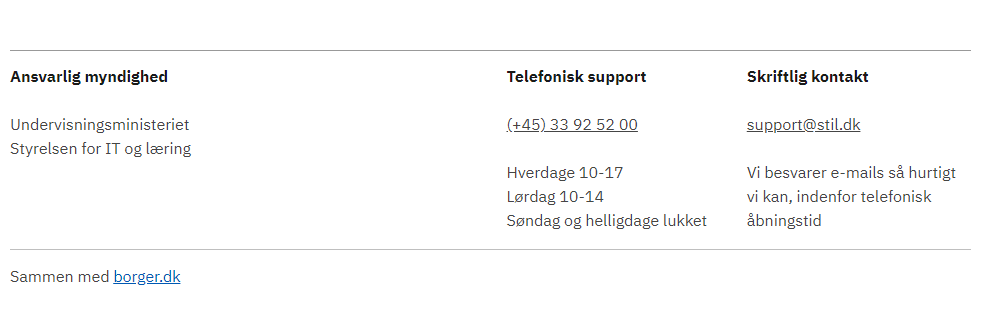
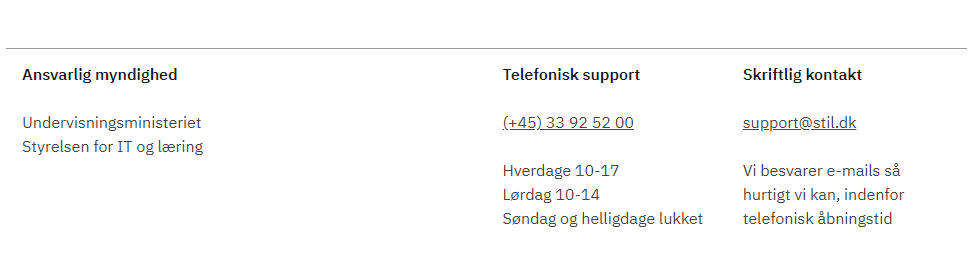
footer documentation

diff --git a/_includes/code/components/layout--landing.html b/_includes/code/components/layout--landing.html
@@ -38,22 +38,22 @@
             <code class="Error-stack">
         <pre>Template render error: (unknown path)
   Error: Could not render component '@header--simpel' - component not found.
-    at Object.exports.prettifyError (C:\Projects\FaellesoffentligStyleguide\Code\dk-web-design-standards-components\node_modules\nunjucks\src\lib.js:34:15)
-    at C:\Projects\FaellesoffentligStyleguide\Code\dk-web-design-standards-components\node_modules\nunjucks\src\environment.js:486:31
-    at eval (eval at _compile (C:\Projects\FaellesoffentligStyleguide\Code\dk-web-design-standards-components\node_modules\nunjucks\src\environment.js:565:24), <anonymous>:32:11)
-    at b_header (eval at _compile (C:\Projects\FaellesoffentligStyleguide\Code\dk-web-design-standards-components\node_modules\nunjucks\src\environment.js:565:24), <anonymous>:50:3)
-    at eval (eval at _compile (C:\Projects\FaellesoffentligStyleguide\Code\dk-web-design-standards-components\node_modules\nunjucks\src\environment.js:565:24), <anonymous>:31:85)
-    at b_banner (eval at _compile (C:\Projects\FaellesoffentligStyleguide\Code\dk-web-design-standards-components\node_modules\nunjucks\src\environment.js:565:24), <anonymous>:87:1)
-    at eval (eval at _compile (C:\Projects\FaellesoffentligStyleguide\Code\dk-web-design-standards-components\node_modules\nunjucks\src\environment.js:565:24), <anonymous>:27:85)
-    at b_skipnav (eval at _compile (C:\Projects\FaellesoffentligStyleguide\Code\dk-web-design-standards-components\node_modules\nunjucks\src\environment.js:565:24), <anonymous>:76:1)
-    at eval (eval at _compile (C:\Projects\FaellesoffentligStyleguide\Code\dk-web-design-standards-components\node_modules\nunjucks\src\environment.js:565:24), <anonymous>:23:86)
-    at b_styles (eval at _compile (C:\Projects\FaellesoffentligStyleguide\Code\dk-web-design-standards-components\node_modules\nunjucks\src\environment.js:565:24), <anonymous>:64:1)
-    at new_cls.root [as rootRenderFunc] (eval at _compile (C:\Projects\FaellesoffentligStyleguide\Code\dk-web-design-standards-components\node_modules\nunjucks\src\environment.js:565:24), <anonymous>:19:85)
-    at eval (eval at _compile (C:\Projects\FaellesoffentligStyleguide\Code\dk-web-design-standards-components\node_modules\nunjucks\src\environment.js:565:24), <anonymous>:28:16)
-    at eval (eval at _compile (C:\Projects\FaellesoffentligStyleguide\Code\dk-web-design-standards-components\node_modules\nunjucks\src\environment.js:565:24), <anonymous>:23:46)
-    at eval (eval at _compile (C:\Projects\FaellesoffentligStyleguide\Code\dk-web-design-standards-components\node_modules\nunjucks\src\environment.js:565:24), <anonymous>:23:85)
-    at eval (eval at _compile (C:\Projects\FaellesoffentligStyleguide\Code\dk-web-design-standards-components\node_modules\nunjucks\src\environment.js:565:24), <anonymous>:19:46)
-    at eval (eval at _compile (C:\Projects\FaellesoffentligStyleguide\Code\dk-web-design-standards-components\node_modules\nunjucks\src\environment.js:565:24), <anonymous>:19:83)</pre>
+    at Object.exports.prettifyError (C:\Users\hma\Documents\repository\ERST_styleguide\dk-web-design-standards-components\node_modules\nunjucks\src\lib.js:34:15)
+    at C:\Users\hma\Documents\repository\ERST_styleguide\dk-web-design-standards-components\node_modules\nunjucks\src\environment.js:486:31
+    at eval (eval at _compile (C:\Users\hma\Documents\repository\ERST_styleguide\dk-web-design-standards-components\node_modules\nunjucks\src\environment.js:565:24), <anonymous>:32:11)
+    at b_header (eval at _compile (C:\Users\hma\Documents\repository\ERST_styleguide\dk-web-design-standards-components\node_modules\nunjucks\src\environment.js:565:24), <anonymous>:50:3)
+    at eval (eval at _compile (C:\Users\hma\Documents\repository\ERST_styleguide\dk-web-design-standards-components\node_modules\nunjucks\src\environment.js:565:24), <anonymous>:31:85)
+    at b_banner (eval at _compile (C:\Users\hma\Documents\repository\ERST_styleguide\dk-web-design-standards-components\node_modules\nunjucks\src\environment.js:565:24), <anonymous>:87:1)
+    at eval (eval at _compile (C:\Users\hma\Documents\repository\ERST_styleguide\dk-web-design-standards-components\node_modules\nunjucks\src\environment.js:565:24), <anonymous>:27:85)
+    at b_skipnav (eval at _compile (C:\Users\hma\Documents\repository\ERST_styleguide\dk-web-design-standards-components\node_modules\nunjucks\src\environment.js:565:24), <anonymous>:76:1)
+    at eval (eval at _compile (C:\Users\hma\Documents\repository\ERST_styleguide\dk-web-design-standards-components\node_modules\nunjucks\src\environment.js:565:24), <anonymous>:23:86)
+    at b_styles (eval at _compile (C:\Users\hma\Documents\repository\ERST_styleguide\dk-web-design-standards-components\node_modules\nunjucks\src\environment.js:565:24), <anonymous>:64:1)
+    at new_cls.root [as rootRenderFunc] (eval at _compile (C:\Users\hma\Documents\repository\ERST_styleguide\dk-web-design-standards-components\node_modules\nunjucks\src\environment.js:565:24), <anonymous>:19:85)
+    at eval (eval at _compile (C:\Users\hma\Documents\repository\ERST_styleguide\dk-web-design-standards-components\node_modules\nunjucks\src\environment.js:565:24), <anonymous>:28:16)
+    at eval (eval at _compile (C:\Users\hma\Documents\repository\ERST_styleguide\dk-web-design-standards-components\node_modules\nunjucks\src\environment.js:565:24), <anonymous>:23:46)
+    at eval (eval at _compile (C:\Users\hma\Documents\repository\ERST_styleguide\dk-web-design-standards-components\node_modules\nunjucks\src\environment.js:565:24), <anonymous>:23:85)
+    at eval (eval at _compile (C:\Users\hma\Documents\repository\ERST_styleguide\dk-web-design-standards-components\node_modules\nunjucks\src\environment.js:565:24), <anonymous>:19:46)
+    at eval (eval at _compile (C:\Users\hma\Documents\repository\ERST_styleguide\dk-web-design-standards-components\node_modules\nunjucks\src\environment.js:565:24), <anonymous>:19:83)</pre>
     </code>
 
         </div>

diff --git a/_includes/footer.html b/_includes/footer.html
@@ -5,7 +5,7 @@
         <div class="col-12 col-sm-12 col-md-3 col-lg-3 nopaddingleft footer-col">
           <div class="align-left">
             <ul class="unstyled-list">
-              <li><h6>Ansvarlig myndighed</h6></li>
+              <li><p class="h6 semibold" title="Ansvarlig myndighed" aria-label="Ansvarlig myndighed">Ansvarlig myndighed</p></li>
             </ul>
             <ul class="unstyled-list">
               <li><p>Undervisningsministeriet</p></li>
@@ -16,21 +16,21 @@
         <div class="col-12 col-sm-12 col-md-3 col-lg-3 footer-col">
           <div class="align-left">
             <ul class="unstyled-list">
-              <li><h6>Hjælpende links</h6></li>
+              <li><p class="h6 semibold" title="Hjælpende links" aria-label="Hjælpende links">Hjælpende links</p></li>
             </ul>
             <ul class="unstyled-list footer-links">
-              <li><a href="#">Link til et sted på siden</a></li>
-              <li><a href="#">Link til et sted på siden</p></li>
-              <li><a href="#">Link til et sted på siden</p></li>
-              <li><a href="#" class="icon-link">Link til en ekstern side<svg class="icon-svg "><use xlink:href="#open-in-new"></use></svg></a></li>
-              <li><a href="#" class="icon-link">Link til en ekstern side<svg class="icon-svg "><use xlink:href="#open-in-new"></use></svg></a></li>
+              <li><a href="javascript:void(0);">Link til et sted på siden</a></li>
+              <li><a href="javascript:void(0);">Link til et sted på siden</p></li>
+              <li><a href="javascript:void(0);">Link til et sted på siden</p></li>
+              <li><a href="javascript:void(0);" class="icon-link">Link til en ekstern side<svg class="icon-svg "><use xlink:href="#open-in-new"></use></svg></a></li>
+              <li><a href="javascript:void(0);" class="icon-link">Link til en ekstern side<svg class="icon-svg "><use xlink:href="#open-in-new"></use></svg></a></li>
             </ul>
           </div>
         </div>
         <div class="col-12 col-sm-12 col-md-3 col-lg-3 footer-col">
           <div class="align-left">
             <ul class="unstyled-list">
-              <li><h6>Telefonisk support</h6></li>
+              <li><p class="h6 semibold" title="Telefonisk support" aria-label="Telefonisk support">Telefonisk support</p></li>
             </ul>
             <ul class="unstyled-list">
               <li><p><a class="function-link" href="tel:004533925200">(+45) 33 92 52 00</a></p></li>
@@ -42,10 +42,10 @@
             </ul>
           </div>
         </div>
-        <div class="col-12 col-sm-12 col-md-3 col-lg-3 nopaddingright footer-col">
+        <div class="col-12 col-sm-12 col-md-3 col-lg-3 footer-col">
           <div class="align-left">
             <ul class="unstyled-list">
-              <li><h6>Skriftlig kontakt</h6></li>
+              <li><p class="h6 semibold"  title="Skriftlig kontakt" aria-label="Skriftlig kontakt">Skriftlig kontakt</p></li>
             </ul>
             <ul class="unstyled-list">
               <li><p><a class="function-link" href="mailto:support@stil.dk">support@stil.dk</a></p></li>
@@ -54,15 +54,6 @@
               <li><p>Vi besvarer e-mails så hurtigt vi kan, indenfor telefonisk åbningstid</p></li>
             </ul>
           </div>
-        </div>
-      </div>
-    </div>
-  </div>
-  <div class="footer-theme">
-    <div class="container">
-      <div class="row">
-        <div class="col-12 nopaddingleft">
-          <p>Sammen med <a href="javascript:void(0);">borger.dk</a></p>
         </div>
       </div>
     </div>

diff --git a/_includes/code/components/kitchen-sink.html b/_includes/code/components/kitchen-sink.html
@@ -38,13 +38,13 @@
             <code class="Error-stack">
         <pre>Template render error: (unknown path)
   Error: Could not render component '@header--basic' - component not found.
-    at Object.exports.prettifyError (C:\Projects\FaellesoffentligStyleguide\Code\dk-web-design-standards-components\node_modules\nunjucks\src\lib.js:34:15)
-    at C:\Projects\FaellesoffentligStyleguide\Code\dk-web-design-standards-components\node_modules\nunjucks\src\environment.js:486:31
-    at eval (eval at _compile (C:\Projects\FaellesoffentligStyleguide\Code\dk-web-design-standards-components\node_modules\nunjucks\src\environment.js:565:24), <anonymous>:32:11)
-    at b_header (eval at _compile (C:\Projects\FaellesoffentligStyleguide\Code\dk-web-design-standards-components\node_modules\nunjucks\src\environment.js:565:24), <anonymous>:109:3)
-    at eval (eval at _compile (C:\Projects\FaellesoffentligStyleguide\Code\dk-web-design-standards-components\node_modules\nunjucks\src\environment.js:565:24), <anonymous>:31:85)
-    at eval (eval at _compile (C:\Projects\FaellesoffentligStyleguide\Code\dk-web-design-standards-components\node_modules\nunjucks\src\environment.js:565:24), <anonymous>:91:1)
-    at entity.render.then.html (C:\Projects\FaellesoffentligStyleguide\Code\dk-web-design-standards-components\node_modules\@frctl\nunjucks\src\extensions\render.js:44:21)
+    at Object.exports.prettifyError (C:\Users\hma\Documents\repository\ERST_styleguide\dk-web-design-standards-components\node_modules\nunjucks\src\lib.js:34:15)
+    at C:\Users\hma\Documents\repository\ERST_styleguide\dk-web-design-standards-components\node_modules\nunjucks\src\environment.js:486:31
+    at eval (eval at _compile (C:\Users\hma\Documents\repository\ERST_styleguide\dk-web-design-standards-components\node_modules\nunjucks\src\environment.js:565:24), <anonymous>:32:11)
+    at b_header (eval at _compile (C:\Users\hma\Documents\repository\ERST_styleguide\dk-web-design-standards-components\node_modules\nunjucks\src\environment.js:565:24), <anonymous>:109:3)
+    at eval (eval at _compile (C:\Users\hma\Documents\repository\ERST_styleguide\dk-web-design-standards-components\node_modules\nunjucks\src\environment.js:565:24), <anonymous>:31:85)
+    at eval (eval at _compile (C:\Users\hma\Documents\repository\ERST_styleguide\dk-web-design-standards-components\node_modules\nunjucks\src\environment.js:565:24), <anonymous>:91:1)
+    at entity.render.then.html (C:\Users\hma\Documents\repository\ERST_styleguide\dk-web-design-standards-components\node_modules\@frctl\nunjucks\src\extensions\render.js:44:21)
     at <anonymous></pre>
     </code>
 

diff --git a/_components/strukturer/footers/footers.html b/_components/strukturer/footers/footers.html
@@ -66,8 +66,7 @@ subnav:
             <li>Footers er opsat i kolonner, hvor informationerne er vist i unordered unstyled lister ved brug af en <code>.unstyled-list</code> class på ul elementet.</li>
             <li>Footer basic har udover den .unstyled-list class, en <code>.inline-list</code> class, der sørger for at informationerne er vist ved siden af hinanden.</li>
             <li>Alle ul's har en margin i bunden, pånær den sidste ul i hver kolonne.</li>
-            <li>Den yderste venstre kolonne gør brug af en <code>.nopaddingleft</code> class, der fjerner paddingen i venstre side, så teksten aligner med borderen i top og bund af footeren. Paddingen kommer tilbage når footeren vises i mobil. <code>.nopaddingright</code> class gør ligeledes det samme, dog for den yderste højre kolonne.</li>
-            <li>Dertil har alle kolonner en <code>.footer-col</code> class, der styrer margin mellem kolonner i mobil.</li>
+            <li>Alle kolonner har en <code>.footer-col</code> class, der styrer margin mellem kolonner i mobil.</li>
           </ul>
           <h2 class="heading heading-margin-alt"  id="accessibility">Accessibility</h2>
           <ul class="content-list">
